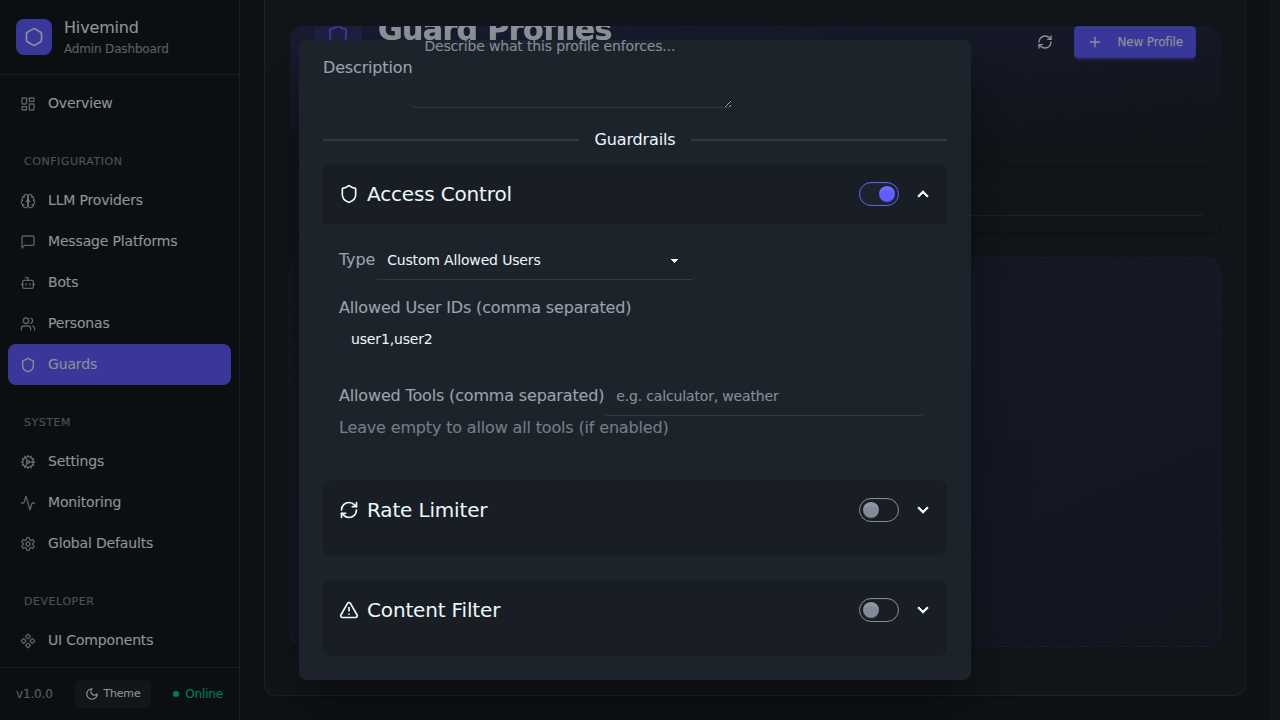
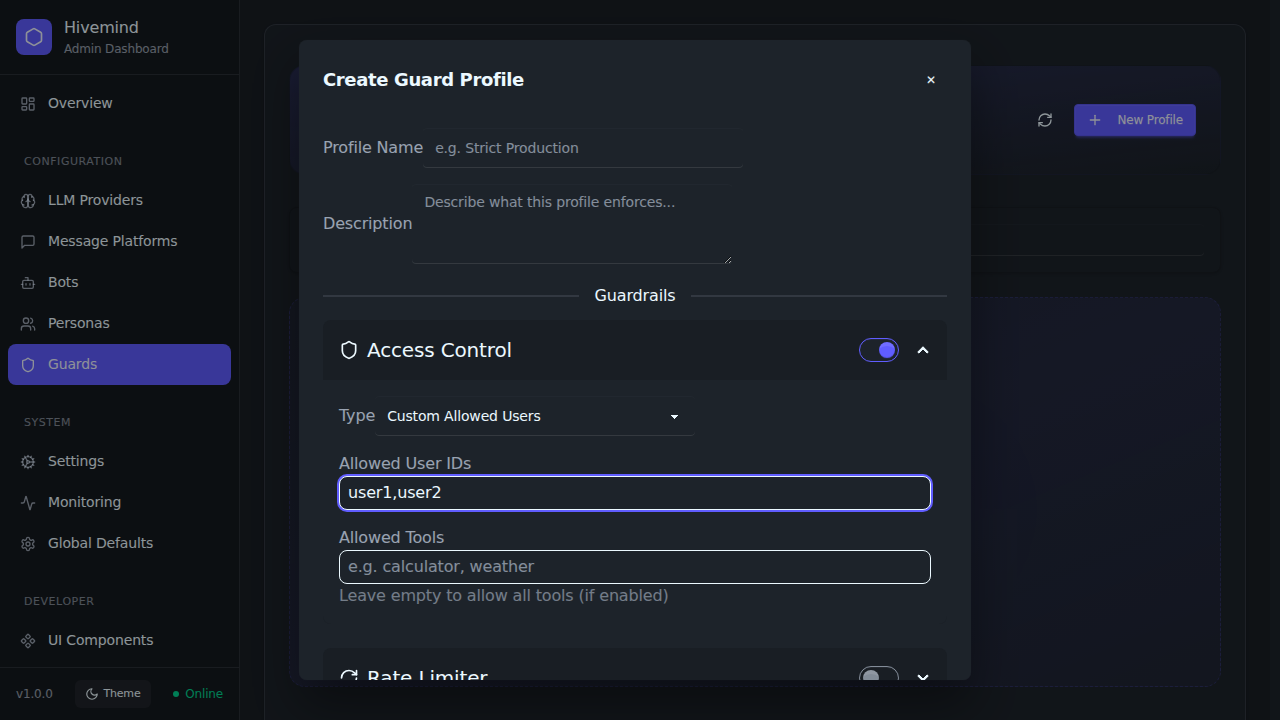
Refiner (Sufficient Modularisation and Single Responsibility): Update CommaSeparatedInput to buffer tokens (#1242)

diff --git a/src/client/src/pages/GuardsPage.tsx b/src/client/src/pages/GuardsPage.tsx
@@ -8,10 +8,13 @@ import SearchFilterBar from '../components/SearchFilterBar';
 import EmptyState from '../components/DaisyUI/EmptyState';
 import { LoadingSpinner } from '../components/DaisyUI/Loading';
 import { CommaSeparatedInput } from '../components/Common/CommaSeparatedInput';
+<<<<<<< HEAD
+=======
 import Input from '../components/DaisyUI/Input';
 import Textarea from '../components/DaisyUI/Textarea';
 import Select from '../components/DaisyUI/Select';
 import Toggle from '../components/DaisyUI/Toggle';
+>>>>>>> origin/main
 
 interface McpGuardConfig {
   enabled: boolean;
@@ -409,6 +412,13 @@ const GuardsPage: React.FC = () => {
                 {editingProfile.guards.mcpGuard.type === 'custom' && (
                   <div className="form-control mt-4">
 <<<<<<< HEAD
+                    <label className="label" htmlFor="allowed-users"><span className="label-text">Allowed User IDs</span></label>
+                    <CommaSeparatedInput
+                      id="allowed-users"
+                      value={editingProfile.guards.mcpGuard.allowedUsers || []}
+                      onChange={v => updateGuard('mcpGuard', { allowedUsers: v })}
+=======
+<<<<<<< HEAD
                     <label className="label" htmlFor="allowed-users"><span className="label-text">Allowed User IDs (comma separated)</span></label>
                     <input
                       id="allowed-users"
@@ -440,6 +450,7 @@ const GuardsPage: React.FC = () => {
 >>>>>>> origin/main
 >>>>>>> origin/main
 >>>>>>> origin/main
+>>>>>>> origin/main
                       disabled={!editingProfile.guards.mcpGuard.enabled}
                     />
                   </div>
@@ -447,12 +458,19 @@ const GuardsPage: React.FC = () => {
 
                 <div className="form-control mt-4">
 <<<<<<< HEAD
+                  <label className="label" htmlFor="allowed-tools"><span className="label-text">Allowed Tools</span></label>
+                  <CommaSeparatedInput
+=======
+<<<<<<< HEAD
                   <label className="label" htmlFor="allowed-tools"><span className="label-text">Allowed Tools (comma separated)</span></label>
                   <input
+>>>>>>> origin/main
                     id="allowed-tools"
-                    type="text"
-                    className="input input-bordered"
                     placeholder="e.g. calculator, weather"
+<<<<<<< HEAD
+                    value={editingProfile.guards.mcpGuard.allowedTools || []}
+                    onChange={v => updateGuard('mcpGuard', { allowedTools: v })}
+=======
                     value={editingProfile.guards.mcpGuard.allowedTools?.join(',') || ''}
                     // Sanitization (trim().filter(Boolean)) happens in handleSaveProfile before API submission.
                     onChange={e => updateGuard('mcpGuard', { allowedTools: e.target.value.split(',') })}
@@ -478,6 +496,7 @@ const GuardsPage: React.FC = () => {
                     placeholder="e.g. calculator, weather"
                     value={editingProfile.guards.mcpGuard.allowedTools || []}
                     onChange={v => updateGuard('mcpGuard', { allowedTools: v })}
+>>>>>>> origin/main
 >>>>>>> origin/main
 >>>>>>> origin/main
 >>>>>>> origin/main
@@ -595,11 +614,19 @@ const GuardsPage: React.FC = () => {
 
                 <div className="form-control mt-4">
 <<<<<<< HEAD
+                  <label className="label" htmlFor="blocked-terms"><span className="label-text">Blocked Terms</span></label>
+                  <CommaSeparatedInput
+=======
+<<<<<<< HEAD
                   <label className="label" htmlFor="blocked-terms"><span className="label-text">Blocked Terms (comma separated)</span></label>
                   <textarea
+>>>>>>> origin/main
                     id="blocked-terms"
-                    className="textarea textarea-bordered h-20"
                     placeholder="e.g. secret, password, confidential"
+<<<<<<< HEAD
+                    value={editingProfile.guards.contentFilter?.blockedTerms || []}
+                    onChange={v => updateGuard('contentFilter', { blockedTerms: v })}
+=======
                     value={editingProfile.guards.contentFilter?.blockedTerms?.join(',') || ''}
                     // Sanitization (trim().filter(Boolean)) happens in handleSaveProfile before API submission.
                     onChange={e => updateGuard('contentFilter', { blockedTerms: e.target.value.split(',') })}
@@ -626,6 +653,7 @@ const GuardsPage: React.FC = () => {
                     placeholder="e.g. secret, password, confidential"
                     value={editingProfile.guards.contentFilter?.blockedTerms || []}
                     onChange={v => updateGuard('contentFilter', { blockedTerms: v })}
+>>>>>>> origin/main
 >>>>>>> origin/main
 >>>>>>> origin/main
 >>>>>>> origin/main

diff --git a/src/client/src/components/Common/CommaSeparatedInput.tsx b/src/client/src/components/Common/CommaSeparatedInput.tsx
@@ -1,6 +1,12 @@
+<<<<<<< HEAD
+import React, { useState } from 'react';
+
+interface Props {
+=======
 import React, { useState, useRef, useEffect, useCallback } from 'react';
 
 export interface CommaSeparatedInputProps {
+>>>>>>> origin/main
   value: string[];
   onChange: (v: string[]) => void;
   maxItems?: number;
@@ -8,6 +14,11 @@ export interface CommaSeparatedInputProps {
   disabled?: boolean;
   id?: string;
   className?: string;
+<<<<<<< HEAD
+}
+
+export const CommaSeparatedInput: React.FC<Props> = ({
+=======
   suggestions?: string[];
   tagColor?: (tag: string) => string;
   error?: string;
@@ -15,6 +26,7 @@ export interface CommaSeparatedInputProps {
 }
 
 export const CommaSeparatedInput: React.FC<CommaSeparatedInputProps> = ({
+>>>>>>> origin/main
   value,
   onChange,
   maxItems = 20,
@@ -22,6 +34,17 @@ export const CommaSeparatedInput: React.FC<CommaSeparatedInputProps> = ({
   disabled = false,
   id,
   className = '',
+<<<<<<< HEAD
+}) => {
+  const [inputValue, setInputValue] = useState('');
+
+  const commitInput = () => {
+    if (!inputValue.trim()) return;
+    const current = inputValue
+      .split(',')
+      .map(s => s.trim())
+      .filter(Boolean);
+=======
   suggestions = [],
   tagColor,
   error,
@@ -151,6 +174,7 @@ export const CommaSeparatedInput: React.FC<CommaSeparatedInputProps> = ({
       .map(s => s.trim())
       .filter(Boolean);
 
+>>>>>>> origin/main
     const next = [...value];
     let changed = false;
     for (const item of current) {
@@ -159,6 +183,34 @@ export const CommaSeparatedInput: React.FC<CommaSeparatedInputProps> = ({
         changed = true;
       }
     }
+<<<<<<< HEAD
+    if (changed) onChange(next);
+    setInputValue('');
+  };
+
+  const handleKeyDown = (e: React.KeyboardEvent<HTMLInputElement>) => {
+    if (e.key === 'Enter') {
+      e.preventDefault();
+      commitInput();
+    }
+    if (e.key === 'Backspace' && !inputValue && value.length > 0) {
+      onChange(value.slice(0, -1));
+    }
+  };
+
+  const handleRemove = (itemToRemove: string) => {
+    if (disabled) return;
+    onChange(value.filter(item => item !== itemToRemove));
+  };
+
+  return (
+    <div className={`flex flex-wrap items-center gap-2 p-1 bg-base-100 border rounded-lg focus-within:ring-2 focus-within:ring-primary ${className}`}>
+      {value.map(v => (
+        <span
+          key={v}
+          data-testid="chip"
+          className="flex items-center gap-1 px-2 py-1 text-sm bg-base-200 text-base-content rounded-md"
+=======
     if (changed) {
       pushToHistory(next);
       onChange(next);
@@ -200,6 +252,7 @@ export const CommaSeparatedInput: React.FC<CommaSeparatedInputProps> = ({
           key={v}
           data-testid="chip"
           className={`flex items-center gap-1 px-2 py-1 text-sm rounded-md ${customColorClass}`}
+>>>>>>> origin/main
         >
           {v}
           {!disabled && (
@@ -212,6 +265,21 @@ export const CommaSeparatedInput: React.FC<CommaSeparatedInputProps> = ({
               &times;
             </button>
           )}
+<<<<<<< HEAD
+        </span>
+      ))}
+      <input
+        id={id}
+        data-testid="csi-input"
+        className="flex-1 bg-transparent outline-none min-w-[120px] px-1"
+        value={inputValue}
+        onChange={e => setInputValue(e.target.value)}
+        onKeyDown={handleKeyDown}
+        onBlur={commitInput}
+        placeholder={value.length >= maxItems ? 'Max items reached' : placeholder}
+        disabled={disabled || value.length >= maxItems}
+      />
+=======
           </span>
           );
         })}
@@ -287,6 +355,7 @@ export const CommaSeparatedInput: React.FC<CommaSeparatedInputProps> = ({
           ))}
         </ul>
       )}
+>>>>>>> origin/main
     </div>
   );
 };

diff --git a/src/config/SecureConfigManager.ts b/src/config/SecureConfigManager.ts
@@ -59,9 +59,13 @@ export class SecureConfigManager {
         'validation' as any,
 =======
 <<<<<<< HEAD
+        'validation' as any,
+=======
+<<<<<<< HEAD
         'ValidationError' as any as any,
 =======
         'validation',
+>>>>>>> origin/main
 >>>>>>> origin/main
 >>>>>>> origin/main
         'SECURE_CONFIG_INVALID_ID',
@@ -83,9 +87,13 @@ export class SecureConfigManager {
         'validation' as any,
 =======
 <<<<<<< HEAD
+        'validation' as any,
+=======
+<<<<<<< HEAD
         'ValidationError' as any as any,
 =======
         'validation',
+>>>>>>> origin/main
 >>>>>>> origin/main
 >>>>>>> origin/main
         'SECURE_CONFIG_INVALID_ID',
@@ -108,9 +116,13 @@ export class SecureConfigManager {
         'validation' as any,
 =======
 <<<<<<< HEAD
+        'validation' as any,
+=======
+<<<<<<< HEAD
         'ValidationError' as any as any,
 =======
         'validation',
+>>>>>>> origin/main
 >>>>>>> origin/main
 >>>>>>> origin/main
         'SECURE_CONFIG_ID_REQUIRED',
@@ -124,9 +136,13 @@ export class SecureConfigManager {
         'validation' as any,
 =======
 <<<<<<< HEAD
+        'validation' as any,
+=======
+<<<<<<< HEAD
         'ValidationError' as any as any,
 =======
         'validation',
+>>>>>>> origin/main
 >>>>>>> origin/main
 >>>>>>> origin/main
         'SECURE_CONFIG_NAME_REQUIRED',
@@ -319,9 +335,13 @@ export class SecureConfigManager {
           'validation',
 =======
 <<<<<<< HEAD
+          'validation',
+=======
+<<<<<<< HEAD
           'ValidationError' as any,
 =======
           'validation',
+>>>>>>> origin/main
 >>>>>>> origin/main
 >>>>>>> origin/main
           'SECURE_CONFIG_INVALID_BACKUP_ID',

diff --git a/src/server/routes/health.ts b/src/server/routes/health.ts
@@ -619,12 +619,16 @@ router.get('/errors/patterns', (req, res) => {
             type,
             count: count as number,
 <<<<<<< HEAD
+            percentage: Number(totalCount) > 0 ? (Number(count) / Number(totalCount)) * 100 : 0,
+=======
+<<<<<<< HEAD
             percentage: ((totalCount as unknown as number) > 0) ? (((count as number) / (totalCount as unknown as number))) * 100 : 0,
 =======
 <<<<<<< HEAD
             percentage: ((count as number) / (totalCount as number)) * 100,
 =======
             percentage: ((totalCount as unknown as number) > 0) ? (((count as number) / (totalCount as unknown as number))) * 100 : 0,
+>>>>>>> origin/main
 >>>>>>> origin/main
 >>>>>>> origin/main
           };

diff --git a/test-mcp-guard-ux.spec.ts b/test-mcp-guard-ux.spec.ts
@@ -31,6 +31,11 @@ test('verify MCP Guard UX', async ({ page }) => {
 
   const usersInput = modal.locator('input[id="allowed-users"]');
 
+<<<<<<< HEAD
+  console.log('Input value:', await usersInput.inputValue());
+  page.screenshot({ path: 'after-fix.png' });
+  expect(await usersInput.inputValue()).toBe('user1, user2');
+=======
   // Test typing normally (buffered text)
   await usersInput.fill('user1');
   await usersInput.press('Enter');
@@ -52,4 +57,5 @@ test('verify MCP Guard UX', async ({ page }) => {
 
   // Take screenshot with chips restored via undo
   await page.screenshot({ path: 'docs/screenshots/mcp-guard-ux-after-undo.png' });
+>>>>>>> origin/main
 });
